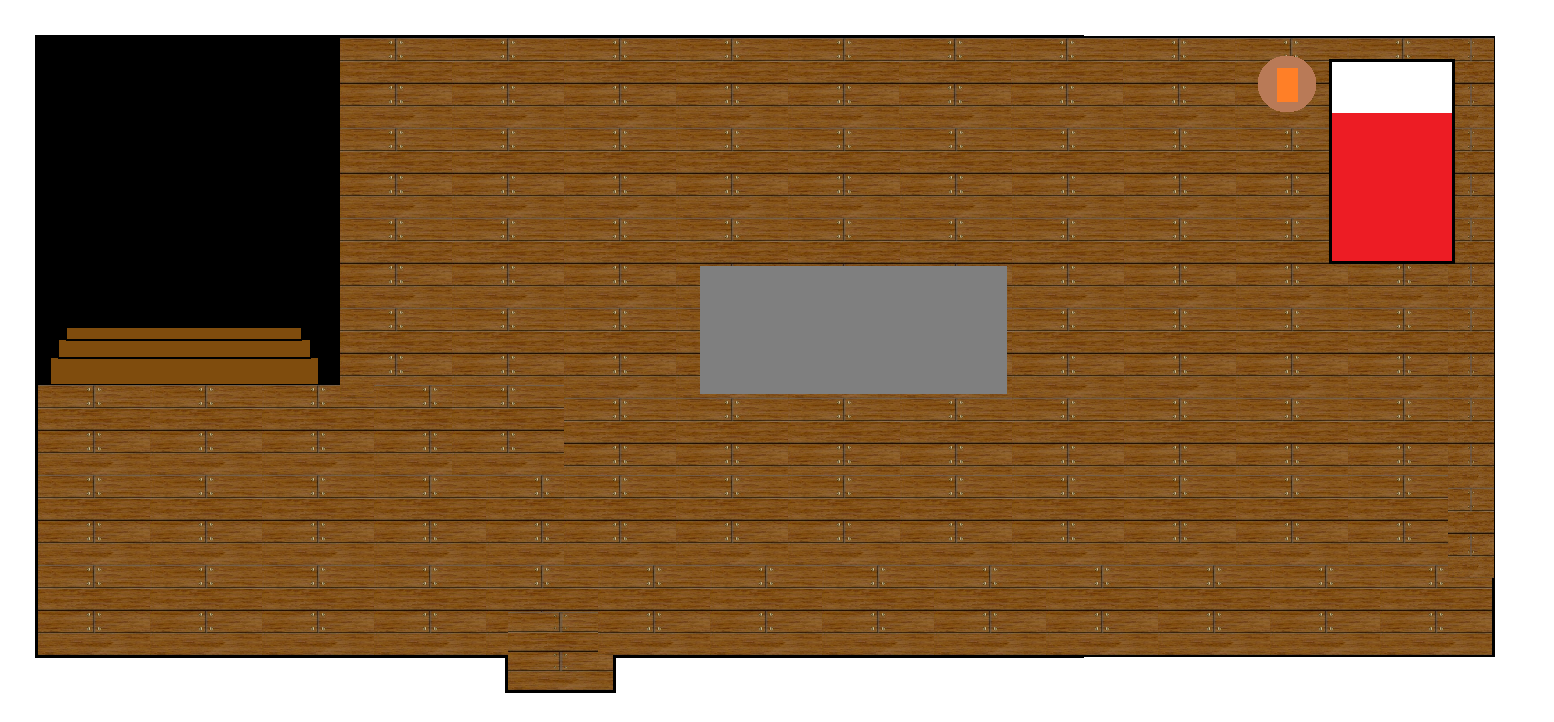
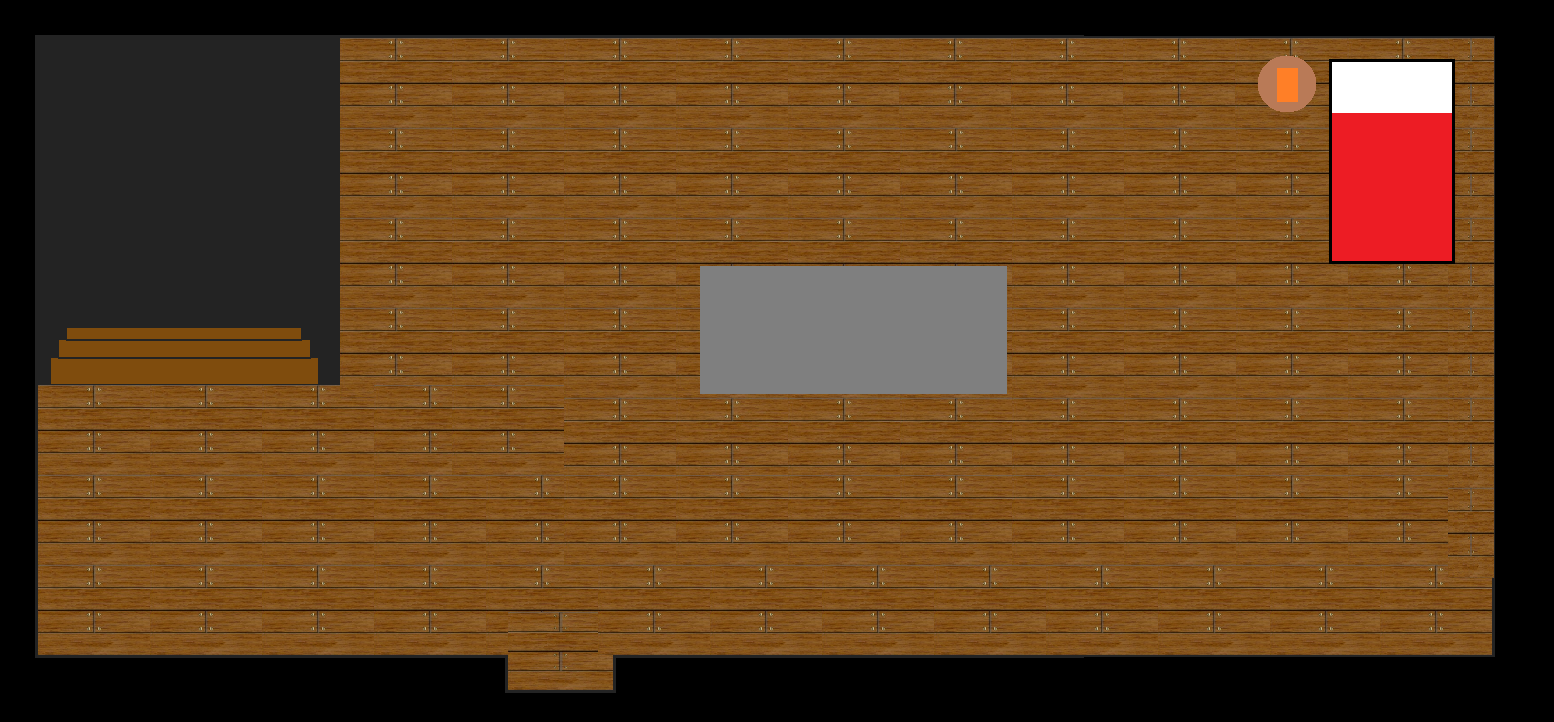
meh eh mehm ehm

Changed region(s): [[0.0, 0.0, 1.0, 1.0]]

diff --git a/Ambrose's Adventure/main.py b/Ambrose's Adventure/main.py
@@ -1,22 +1,33 @@
 import ccircle
 from Ambrose import*
 import time
+from World import*
+from Door import*
+
+# Fix door in cabin
+# Fix Ambrose starting pos
+# Add door from outside to cabin
+# Create mask for outside
 
 window = ccircle.Window("Ambroses Adventure")
 window.toggleMaximized()
 size = window.getSize()
 imageBG = ccircle.Image("image/AA_Cabin(Inside).png")
+Cabin = World(ccircle.Image("image/AA_Cabin(Inside).png"), ccircle.Image("image/AA_Cabin(Inside)_mask.png"))
+Outside = World(ccircle.Image("image/AA_Outside.png"), ccircle.Image("image/AA_Cabin(Inside)_mask.png"))
+Upstairs = World(ccircle.Image(""))
+Cabin.add(Door(522, 635, 90, 45, Outside, 108, 158))
+Outside.add(Door(100, 34, 34, 34, Cabin, 530, 625))
+Cabin.add(Door(125, 210, 95, 34, Upstairs,))
 
-ambrose = Ambrose(678, 109)
+ambrose = Ambrose(1285, 235)
+Cabin.add(ambrose)
 last = time.perf_counter()
 dt = 1 / 60
 while window.isOpen():
     window.clear(1, 1, 1)
-    imageBG.draw(0, 2, 1630, 830)
-
-    ambrose.update(dt)
-    ambrose.draw()
-
+    ambrose.world.draw(window)
+    ambrose.world.update(dt)
     window.update()
 
     now = time.perf_counter()

diff --git a/Ambrose's Adventure/Ambrose.py b/Ambrose's Adventure/Ambrose.py
@@ -39,14 +39,22 @@ class Ambrose:
             for frame in frames:
                 frame.eraseGreen()
 
-    def draw(self):
+    def draw(self, window):
         state = self.action +"_"+ self.facing
         frame = int(self.counter/0.3) % len(self.image[state])
-        self.image[state][frame].draw(self.x, self.y, 160, 189)
+        self.image[state][frame].draw(self.x - 65, self.y - 196, 160, 212)
 
 
 
     def update(self, dt):
+        for obj in self.world.objects:
+            if obj.getType() == "door":
+               if obj.x<= self.x<= obj.x + obj.width and obj.y<= self.y<= obj.y + obj.height:
+                    self.world.remove(self)
+                    obj.link.add(self)
+                    self.x = obj.linkx
+                    self.y = obj.linky
+                    break
         self.counter+=dt
         if ccircle.isKeyDown('left'):
             self.facing = "left"
@@ -66,4 +74,7 @@ class Ambrose:
             self.y  +=self.speed*dt
         else:
             self.action = "idle"
+
+    def getType(self):
+        return "player"
 

diff --git a/Ambrose's Adventure/AA_Dialogue.py b/Ambrose's Adventure/AA_Dialogue.py
@@ -1,0 +1,12 @@
+Ambrose:-sighs-"Another uneventful day........"
+Ambrose:"I wonder........"
+Ambrose:"..........."
+Ambrose:"........"
+Ambrose:"I really shouldn't, but...."
+Ambrose:"I want to see what the city is like......"
+Ambrose:"I've never even stepped inside once. All I can see is the skyline, its unnatural lights, and the loud noises....."
+Ambrose:"........Humans can be very rash though....."
+Ambrose:"They keep yelling at me every time I try to get inside that place......."
+Ambrose:"They also call me a monster, and point their weapons at me........."
+Ambrose:"Am I really a monster? Or are they just scared?"
+Ambrose:"Looks like I'll never find out......"

diff --git a/Ambrose's Adventure/World.py b/Ambrose's Adventure/World.py
@@ -1,0 +1,22 @@
+class World:
+    def __init__(self, bg, collision):
+        self.bg = bg
+        self.width, self.height = bg.getSize()
+        self.collision = collision
+        self.objects = []
+
+    def add(self, obj):
+        obj.world = self
+        self.objects.append(obj)
+
+    def remove(self, obj):
+        self.objects.remove(obj)
+
+    def draw(self, window):
+        self.bg.draw(0, 0, self.width, self.height)
+        for obj in self.objects:
+            obj.draw(window)
+
+    def update(self, dt):
+        for obj in self.objects:
+            obj.update(dt)

diff --git a/Ambrose's Adventure/Door.py b/Ambrose's Adventure/Door.py
@@ -1,0 +1,18 @@
+class Door:
+    def __init__(self, x, y, width, height, link, linkx, linky):
+        self.x = x
+        self.y = y
+        self.width = width
+        self.height = height
+        self.link = link
+        self.linkx = linkx
+        self.linky = linky
+
+    def getType(self):
+        return "door"
+
+    def draw(self, window):
+        window.drawRect(self.x, self.y, self.width, self.height, 1, 0, 0, 0.25)
+
+    def update(self, dt):
+        pass
